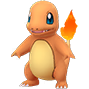
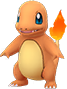
combat page changes

diff --git a/assets/styles/styles.css b/assets/styles/styles.css
@@ -747,8 +747,8 @@ h2, .inactive-h2 {
 
 .info-container {
     background-repeat: no-repeat;
-    background-size: 375px;
-    width: 375px;
+    background-size: 480px;
+    width: 480px;
     text-align: center;
     padding-bottom: 20px;
     color: #44696C;
@@ -762,14 +762,32 @@ h2, .inactive-h2 {
         width: 100%;
         background-size: 100%;
     }
+    }
+
+.info-back {
+    position: absolute;
+    left: 0;
+    width: 100%;
+    z-index: 1;
+}
+
+.info-pokemon-img {
+    position: absolute;
+    top: 0;
+    left: 50%;
+    width: 256px!important;
+    height: 256px!important;
+    max-width: inherit!important;
+    max-height: inherit!important;
+    margin-left: -128px;
+    z-index: 3;
 }
 
 .info-cp-circle {
-    background-image: url(../images/cpcircle.png);
-    background-repeat: no-repeat;
-    background-position: center;
-    background-size: 210px;
-    margin-bottom: 20px;
+    position: relative;
+    top: 20px;
+    height: 205px;
+    z-index: 3;
 }
 
 .info-cp-button-container {
@@ -778,6 +796,7 @@ h2, .inactive-h2 {
     position: absolute;
     right: 4px;
     top: 4px;
+    z-index: 3;
 }
 
 .info-cp-button {
@@ -804,15 +823,56 @@ h2, .inactive-h2 {
 }
 
 .info-cp-label {
-    font-size: 12pt;
-    color: white;
+    position: absolute;
+    top: 0;
+    left: 0;
+    width: 100%;
     text-align: center;
-    position: relative;
+    margin: 0;
+    font-weight: 400;
+    font-size: 28px;
+    font-family: Lato!important;
+    color: rgba(255,255,255,.84);
+    z-index: 4;
 }
 
-.info-cp-value {
-    font-size: 18pt;
-    color: white;
+.info-cp {
+    font-size: .6em;
+}
+
+.cp {
+    position: absolute;
+    top: 40px;
+    left: 50%;
+    width: 260px;
+    height: 130px;
+    margin-left: -130px;
+    overflow: hidden;
+    z-index: 1;
+}
+
+.cp img {
+    position: absolute;
+    top: 0;
+    left: 0;
+    width: 100%;
+    height: auto;
+    max-width: inherit!important;
+    max-height: inherit!important;
+}
+
+.cp-circle-value {
+    transform: rotate(0deg);
+}
+
+.cp-40 {
+    position: absolute;
+    left: 50%;
+    top: 161px;
+    margin-left: 138px;
+    font-size: 8px;
+    color: rgba(255,255,255,.84);
+    z-index: 3;
 }
 
 .shiny-button, .shiny-button-pressed {
@@ -833,15 +893,6 @@ h2, .inactive-h2 {
     background-image: url(../images/shiny_true.png);
 }
 
-.info-pokemon-img {
-    position: relative;
-    top: 20px;
-    background-repeat: no-repeat;
-    background-position: center;
-    background-size: contain;
-    min-height: 115px;
-}
-
 .info-types-table {
     display: flex;
     justify-content: center;
@@ -853,15 +904,16 @@ h2, .inactive-h2 {
 }
 
 .info-pokemon-details {
+    position: relative;
     display: flex;
     flex-direction: column;
     background-color: white;
     border-radius: 8px;
-    margin-top: -20px;
     margin-left: 15px;
     margin-right: 15px;
-    padding-top: 25px;
+    padding-top: 65px;
     padding-bottom: 5px;
+    z-index: 2;
 }
 
 .info-pokemon-details table:last-of-type {
@@ -877,8 +929,13 @@ h2, .inactive-h2 {
     padding-bottom: 0.25rem;
 }
 .info-pokemon-name {
-    font-size: 15pt;
-    font-weight: bold;
+    width: 100%;
+    margin: 0!important;
+    font-weight: 700;
+    font-size: 24px;
+    font-family: Lato!important;
+    text-align: center;
+    color: #456c6e;
 }
 
 .info-pokemon-form-name {
@@ -929,24 +986,24 @@ h2, .inactive-h2 {
     height: 32px;
 }
 
-.info-back-BUG { background-image: url(../images/BUG.png); background-color: #bcab11; }
-.info-back-DARK { background-image: url(../images/DARK.png); background-color: #0B1334; }
-.info-back-DRAGON { background-image: url(../images/DRAGON.png); background-color: #3e683e; }
-.info-back-ELECTRIC { background-image: url(../images/ELECTRIC.png); background-color: #0e3761; }
-.info-back-FAIRY { background-image: url(../images/FAIRY.png); background-color: #8e70e3; }
-.info-back-FIGHTING { background-image: url(../images/FIGHTING.png); background-color: #827150; }
-.info-back-FIRE { background-image: url(../images/FIRE.png); background-color: #5d2a3c; }
-.info-back-FLYING { background-image: url(../images/FLYING.png); background-color: #6d9feb; }
-.info-back-GHOST { background-image: url(../images/GHOST.png); background-color: #123b65; }
-.info-back-GRASS { background-image: url(../images/GRASS.png); background-color: #aed05a; }
-.info-back-GROUND { background-image: url(../images/GROUND.png); background-color: #bb9a71; }
-.info-back-ICE { background-image: url(../images/ICE.png); background-color: #416886; }
-.info-back-NORMAL { background-image: url(../images/NORMAL.png); background-color: #d4c49a; }
-.info-back-POISON { background-image: url(../images/POISON.png); background-color: #181255; }
-.info-back-PSYCHIC { background-image: url(../images/PSYCHIC.png); background-color: #2029b5; }
-.info-back-ROCK { background-image: url(../images/ROCK.png); background-color: #767f8f; }
-.info-back-STEEL { background-image: url(../images/STEEL.png); background-color: #1A2B33; }
-.info-back-WATER { background-image: url(../images/WATER.png); background-color: #0485a2; }
+.info-back-BUG { background-color: #bcab11; }
+.info-back-DARK { background-color: #0B1334; }
+.info-back-DRAGON { background-color: #3e683e; }
+.info-back-ELECTRIC { background-color: #0e3761; }
+.info-back-FAIRY { background-color: #8e70e3; }
+.info-back-FIGHTING { background-color: #827150; }
+.info-back-FIRE { background-color: #5d2a3c; }
+.info-back-FLYING { background-color: #6d9feb; }
+.info-back-GHOST { background-color: #123b65; }
+.info-back-GRASS { background-color: #aed05a; }
+.info-back-GROUND { background-color: #bb9a71; }
+.info-back-ICE { background-color: #416886; }
+.info-back-NORMAL { background-color: #d4c49a; }
+.info-back-POISON { background-color: #181255; }
+.info-back-PSYCHIC { background-color: #2029b5; }
+.info-back-ROCK { background-color: #767f8f; }
+.info-back-STEEL { background-color: #1A2B33; }
+.info-back-WATER { background-color: #0485a2; }
 
 /*---------------------------------------------------------------------*/
 /*  RATING STARS

diff --git a/src/components/CombatPanel.jsx b/src/components/CombatPanel.jsx
@@ -167,19 +167,28 @@ class CombatPanel extends React.Component {
         let typeKey = PokedexHelper.getSpeciesKey(species)
         let attacks = PokedexHelper.getAttacks(this.props.id)
         let styles = {
-            backgroundImage: 'url(' + PokedexHelper.getImagePath(pokemon, this.state.showShiny) + ')'
+            backgroundImage: 'url(' + PokedexHelper.getBigImagePath(pokemon, this.state.showShiny) + ')'
         }
 
         return (
             <div className={ 'info-container info-back-' + typeKey }>
+                <img className='info-back' src={'../assets/images/' + typeKey + '.png'} />
                 { this.generateShinyButton(pokemon) }
-                <div className='info-cp-label'>PC<span className='info-cp-value'>{ pokemon.cpmax }</span></div>
                 <div className='info-cp-circle'>
-                    <div className='info-pokemon-img' style={ styles }/>
+                    <h1 className='info-cp-label'>
+                        <span className='info-cp'>PC</span>
+                        <span className='info-cp-value'>{ pokemon.cpmax }</span>
+                    </h1>
+                    <img className='info-pokemon-img' src={ PokedexHelper.getBigImagePath(pokemon, this.state.showShiny) } />
+                    <div className='cp'>
+                        <img src='../assets/images/circle.svg' />
+                        <img className='cp-circle-value' src='../assets/images/circleValue.svg' />
+                    </div>
+                    <p className='cp-40'>40</p>
                 </div>
                 <div className="info-pokemon-details">
                     <div className="info-pokemon-name-container">
-                        <span className='info-pokemon-name'>{ PokedexHelper.loc(pokemon) }</span>
+                        <h2 className='info-pokemon-name'>{ PokedexHelper.loc(pokemon) }</h2>
                         { this.generateFormInfos(pokemon) }
                     </div>
                     { typesTable }

diff --git a/src/data/PokedexHelper.js b/src/data/PokedexHelper.js
@@ -31,6 +31,19 @@ class PokedexHelper {
         return path + id + '.png'
     }
 
+    getBigImagePath (pokemon, isShiny) {
+        let path = '../assets/pokemons-big/', id = pokemon.id
+        if (isShiny) {
+            path += 'shiny/'
+        }
+        else if (pokemon.form && pokemon.form.alola) {
+            path += 'alola/'
+            id = pokemon.form.parent
+        }
+        
+        return path + id + '.png'
+    }
+
     getForms() {
         let forms = {}
         this.enumPokemons(pokemon => {
